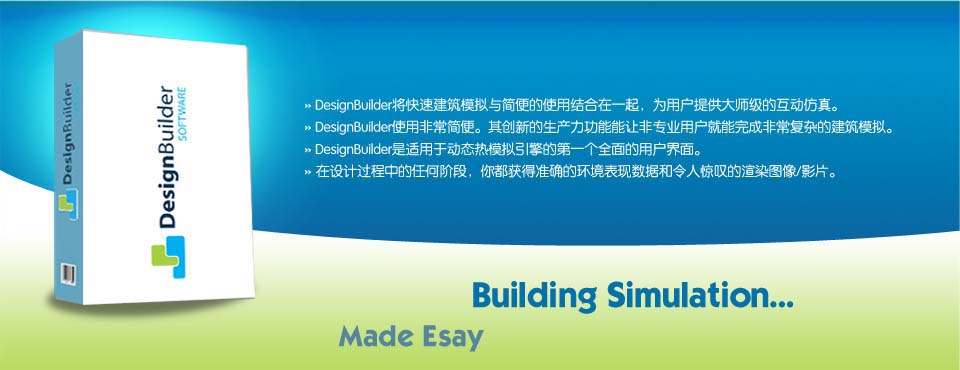
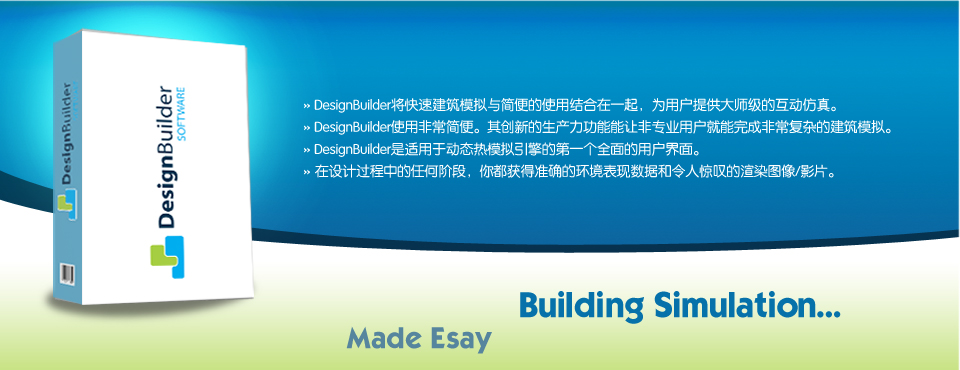
添加首页按钮

diff --git a/wp/css/style.css b/wp/css/style.css
@@ -180,7 +180,7 @@ a:hover { color: #8fb931; }
 h2{font-size:14px;}
 .container { margin:0 auto; width:960px;}
 .wrap{background:#f1fbf8;}
-.homebanner{height:370px;}
+.homebanner{height:370px;background: url('../img/banner.jpg') no-repeat 0 0;}
 .homefeatured{background:#cbe5ef;height:257px;}
 .homefeatured img{margin:15px 0 0 15px;}
 .homecontent{background:#f1fbf8;height:339px;}
@@ -224,7 +224,8 @@ h2{font-size:14px;}
 .message{background:#d4ebfb;height:37px;text-align:center;line-height:37px;font-weight:bold;margin-top:30px;}
 .breadcrumbs{color:#a5ce42;border-bottom:1px solid #4d9ace;margin-top:10px;padding-left:5px;padding-bottom:5px;margin-bottom:2em;}
 .breadcrumbs a{color:#4d9ace;}
-
+.btn_try{position:absolute;top:228px;left:338px;}
+.btn_buy{position:absolute;top:235px;left:553px;}
 /* =Menu
 -------------------------------------------------------------- */
 

diff --git a/wp/wp-content/themes/site/homepage.php b/wp/wp-content/themes/site/homepage.php
@@ -7,8 +7,9 @@
 get_header(); ?>
     	<div class="clear"></div>
     <div id="main">
-    	<div class="homebanner">
-    		<img src="/img/banner.jpg">
+    	<div class="homebanner relative">
+    		<a href="/?cat=6" class="btn_try"><img src="/img/btn_try.jpg"></a>
+    		<a href="/contact/" class="btn_buy"><img src="/img/btn_buy.jpg"></a>
     	</div>
     	<div class="homefeatured">
     		<a href="#"><img src="/img/web_07.jpg"></a>
